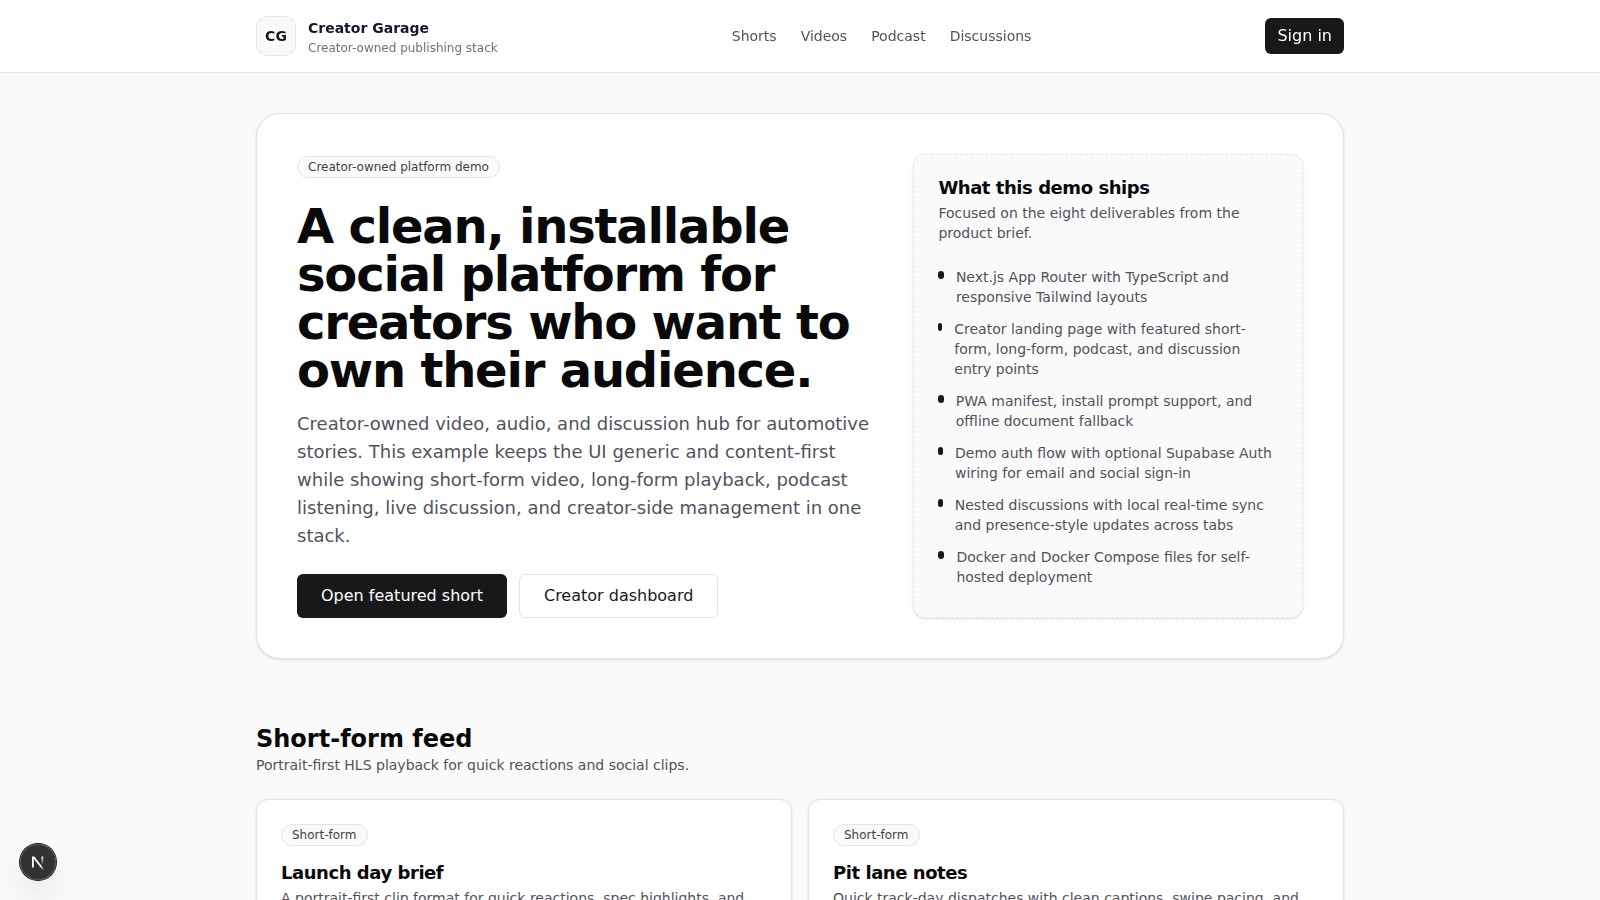
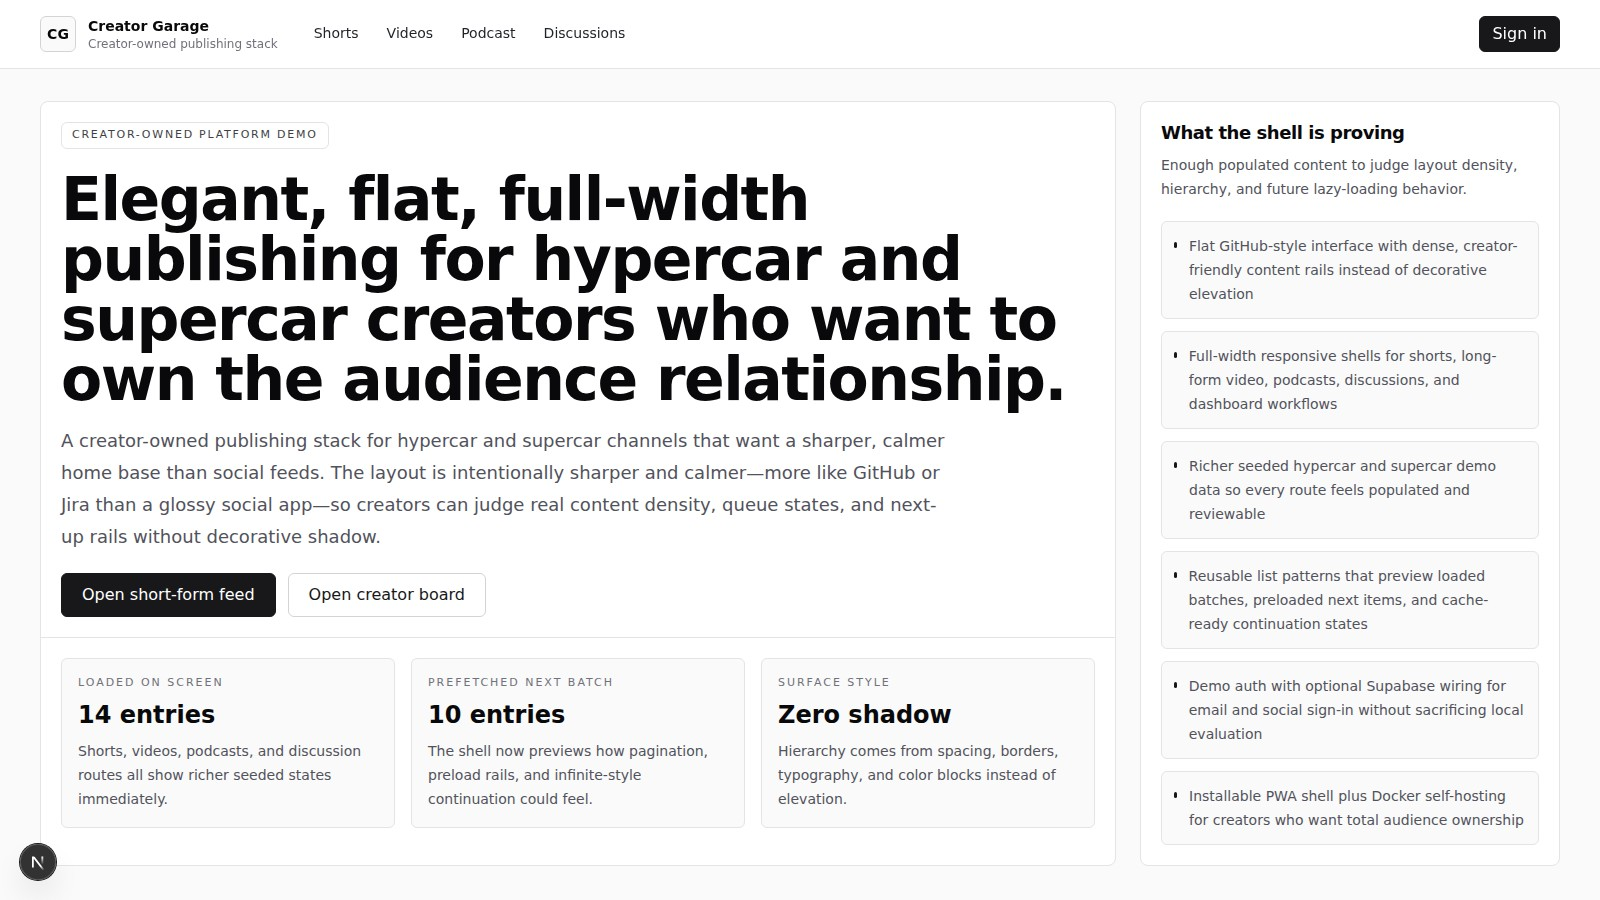
docs: refresh redesigned route screenshots

diff --git a/components/discussion-thread.tsx b/components/discussion-thread.tsx
@@ -159,12 +159,12 @@ export function DiscussionThread({
 
   const totalReplies = useMemo(() => comments.filter((comment) => comment.parentId).length, [comments]);
 
-  function publish(comment: Comment[]) {
-    window.localStorage.setItem(storageKey(slug), JSON.stringify(comment));
-    replace(slug, sortComments(comment));
+  function publish(comments: Comment[]) {
+    window.localStorage.setItem(storageKey(slug), JSON.stringify(comments));
+    replace(slug, sortComments(comments));
     if (typeof BroadcastChannel !== "undefined") {
       const channel = new BroadcastChannel(`petrol-headbook-${slug}`);
-      channel.postMessage({ type: "comments", comments: comment });
+      channel.postMessage({ type: "comments", comments });
       channel.close();
     }
   }
